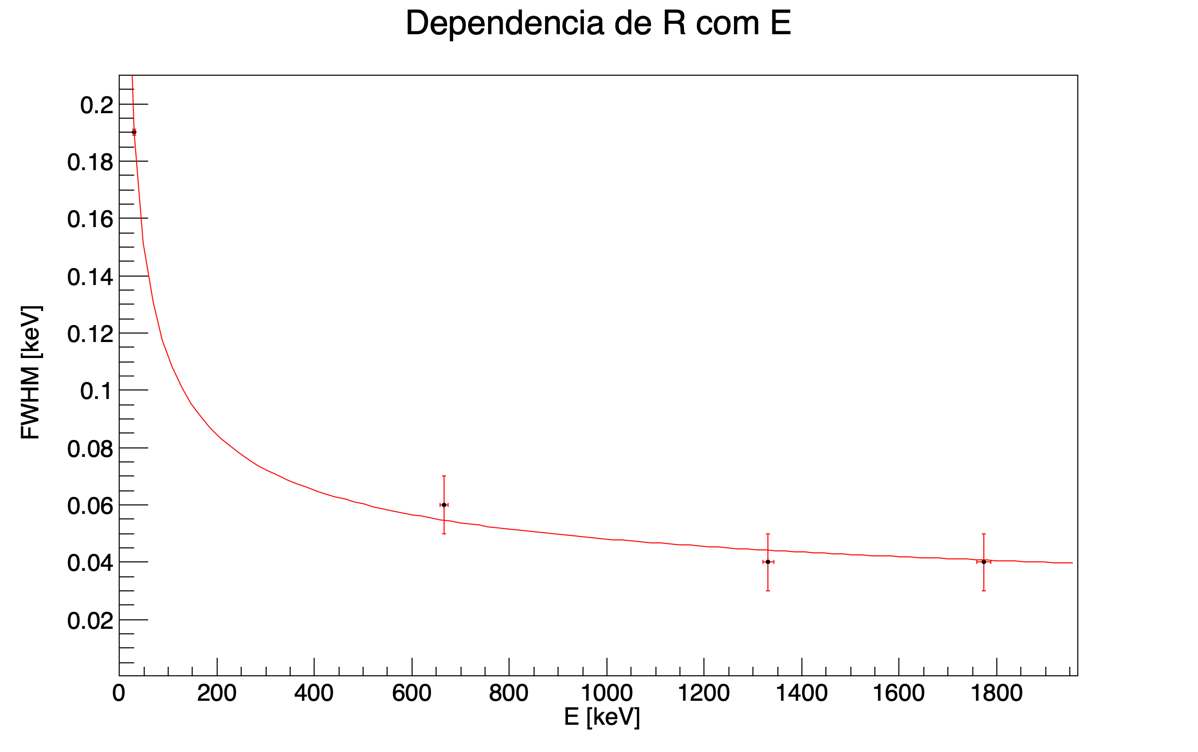
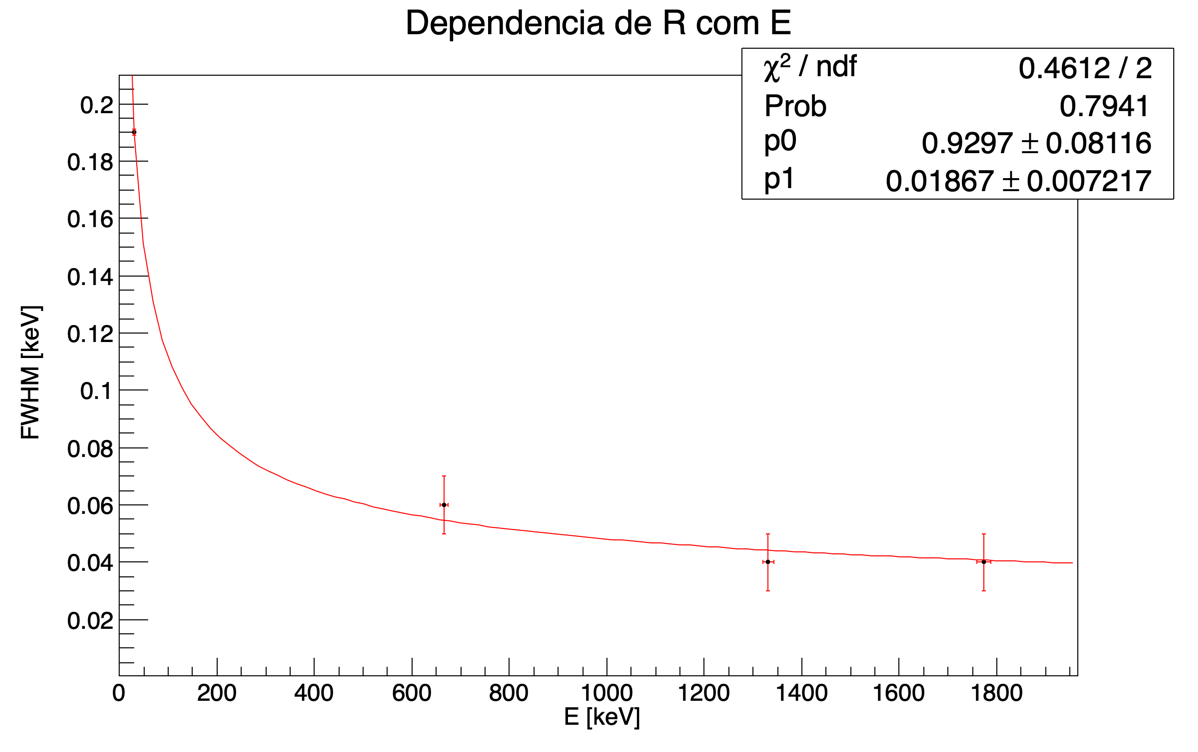
Atenuação da Matéria

Changed region(s): [[0.7412, 0.0612, 0.9883, 0.2753], [0.6177, 0.0612, 0.7412, 0.2753]]

diff --git a/Gama/main/Analise.cpp b/Gama/main/Analise.cpp
@@ -543,12 +543,14 @@ int main(){
 
 
     // Calculo do Coeficiente na Atenuação do Chumbo
-    double espessura_fino = 947.7;
-    double espessura_grosso = 7042.00;
+    double espessura_fino = 1800;
+    double espessura_grosso = 7200;
     TGraph G_Coeficiente_Atenuacao;
     TF1 *co = new TF1("co", "[0]*x+[1]", 0, 1024);
-    G_Coeficiente_Atenuacao.AddPoint(espessura_fino, log(counts_fino));
-    G_Coeficiente_Atenuacao.AddPoint(espessura_grosso, log(counts_grosso));
+
+
+    G_Coeficiente_Atenuacao.AddPoint(espessura_fino, log(rad_cs_pb_thin_smoothed[434].second));
+    G_Coeficiente_Atenuacao.AddPoint(espessura_grosso, log(rad_cs_pb_smoothed[434].second));
     G_Coeficiente_Atenuacao.SetLineColor(kRed);
     G_Coeficiente_Atenuacao.SetMarkerStyle(20);
     G_Coeficiente_Atenuacao.SetMarkerSize(0.5);
@@ -584,7 +586,7 @@ int main(){
 
 
 
-
+    gStyle->SetOptFit(1111);
     c1.Clear();
     c1.SetLogy(0);
     G_Resolucao_Energia->Draw("AP");
